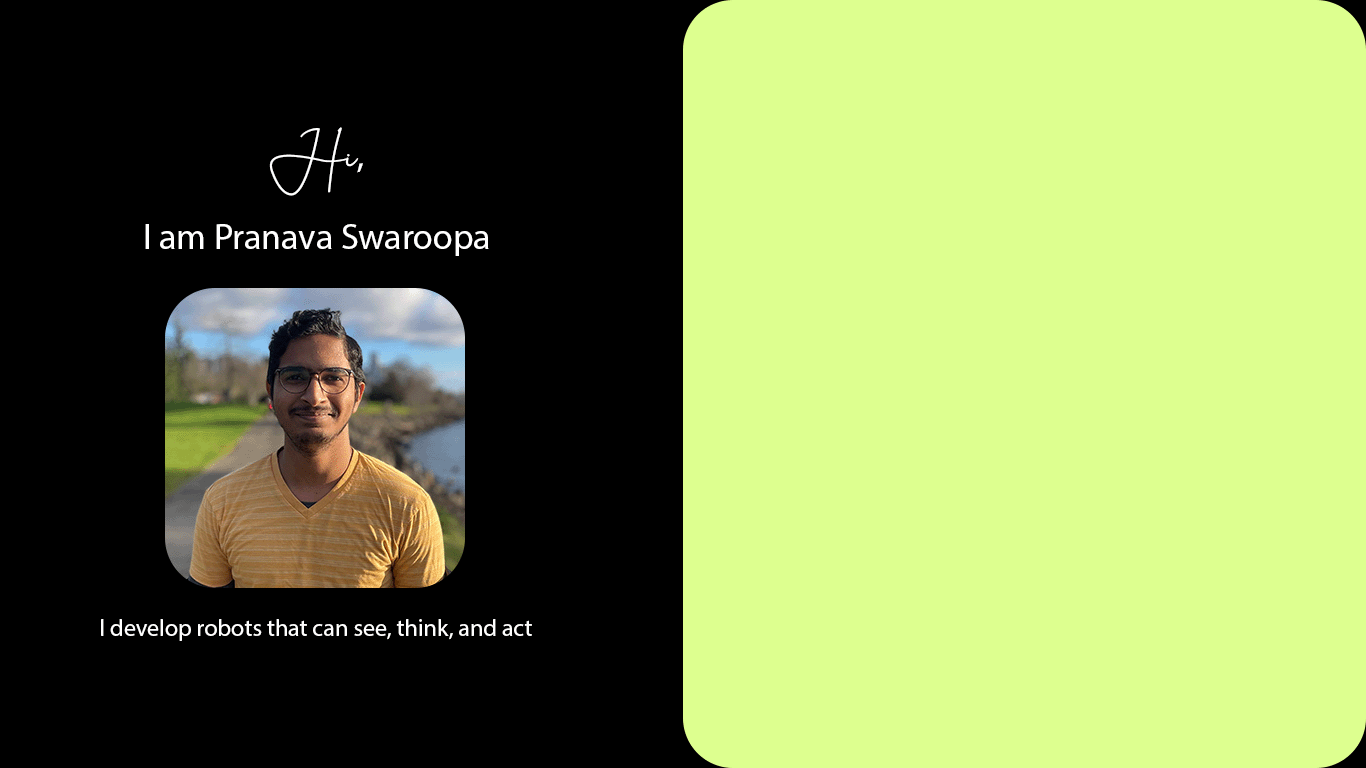
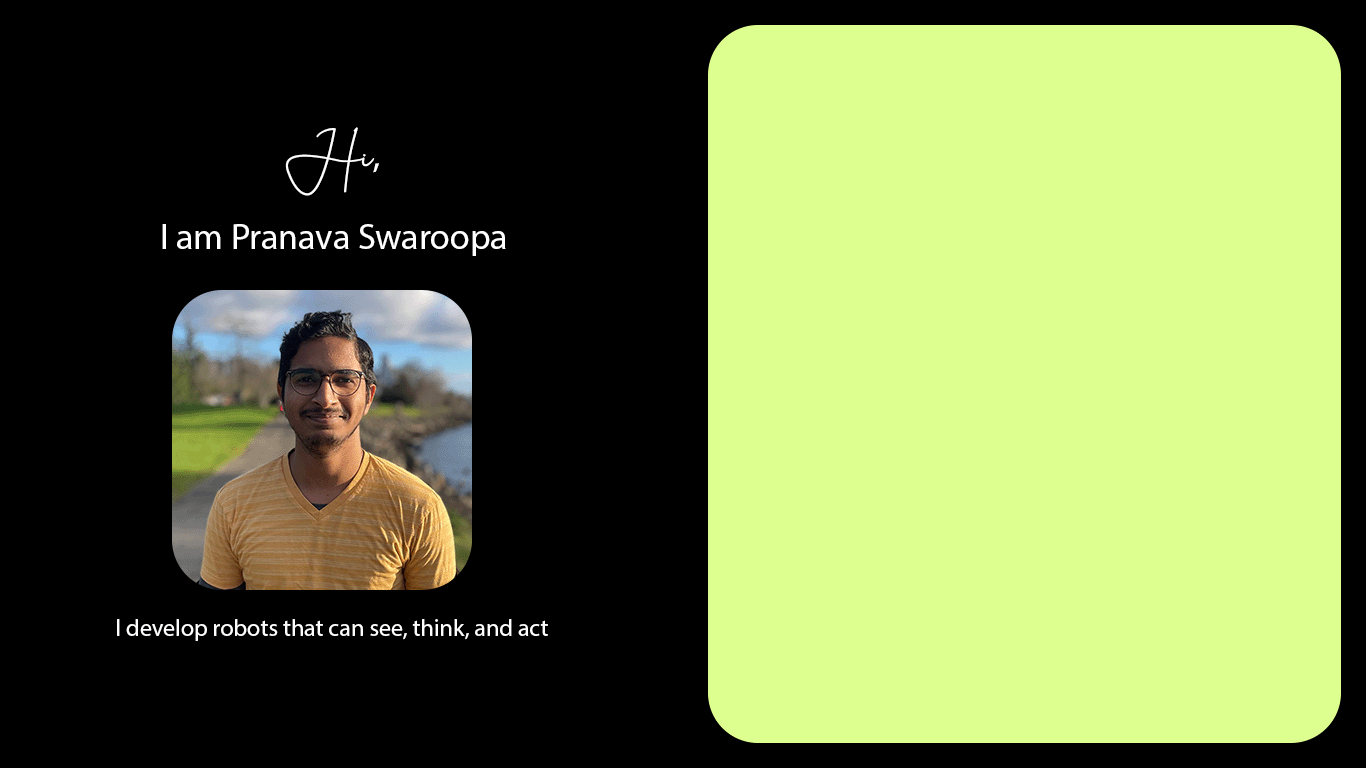
corrected text alignment

diff --git a/style.css b/style.css
@@ -1,57 +1,48 @@
 html {
     font-family: sans-serif;
     line-height: 1.15;
-    -webkit-text-size-adjust: 100%;
-    -webkit-tap-highlight-color: transparent;
     height: 100%;
 }
-.body-font-color {
-    color: #fff;
-}
-/* body {
-    margin: 50px;
-    font-family: source sans pro,Helvetica,Arial,sans-serif;
-    font-size: 1rem;
-    font-weight: 400;
-    line-height: 1.5;
-    color: #212529;
-    text-align: left;
-    background-color: #fff
-} */
 body {
     background-image: url("src/images/MainPage_V3.png"),linear-gradient(90deg, #000 50%, #000 50%) ;
     background-repeat: no-repeat;
     background-position: center;
+}
+.info {
+    
+    font-size: 18px;
+    font-family: "Google Sans Display", Roboto, Arial, sans-serif;
+    line-height: 24px;
+    position: absolute;
+    top: 10%;
+    left: 55%;
+    right: 15%;
+}
+#about {
+    text-transform: uppercase;
+    font-size: 24px;
+}
+
+@media screen and (max-width: 481px) {
+
+body {
+    background-image: url("src/images/MainPage_Mobile.png") ;
+    background-repeat: no-repeat;
+    align-items: center;
     
 }
-.headline {
-    text-transform: uppercase;
-    font-weight: 700;
-    font-size: 30px;
+
+.info {
+    
+    font-size: 18px;
     font-family: "Google Sans Display", Roboto, Arial, sans-serif;
-    line-height: 48px;
-}
-/* h1,h2,h3,h4,h5,h6 {
-    margin-top: 0;
-    margin-bottom: .5rem
-} */
-#title {
-    position: relative;
-    top: 20%;
-    /* left: 100px; */
-}
-.v-auto {
-    font-size: 30px;
-    color: #bb23c7;
-}
-.clemson-image {
+    line-height: 24px;
     position: absolute;
-    right: 100px;
+    top: 65%;
+    left: 10%;
 }
-p {
-    margin-top: 0;
-    margin-bottom: 1rem
+#about {
+    text-transform: uppercase;
+    font-size: 24px;
 }
-.student-info {
-    margin: 0px 50px 0px 50px;
 }

diff --git a/index.html b/index.html
@@ -1,15 +1,19 @@
 <!DOCTYPE html>
-<html>
+<html lang="en">
     <head>
-        <link rel="stylesheet" href="style.css">
+        <title>Pranava Swaroopa</title>
+        <link rel="stylesheet" type="text/css" href="style.css">
+        <meta content="text/html" charset="UTF-8">
+        <meta name="viewport" content="width=device-width, initial-scale=1.0" />
     </head>
 <body class="body-font-color">
 
-<!-- <div class="student-info">
+<div class="info">
+    <h4 id="about">About me</h4>
     <div class="icar-head">I'm a masters student at the <b>Clemson Univerisity International Center for Automotive Research</b></div>
     <div class="dept">Master of Science in <b class="v-auto">Automotive Engineering</b> speacializing in <b class="v-auto">Vehicle Autonomy</b></div>
     <div class="headline">I develop technology to help robots so they can help us</div> 
-</div> -->
+</div>
 <!-- <div class="clemson-image"><img src="src/images/ClemsonPaw_RGB__Orange.png" width="300"></div> -->
 <!-- <br>
 <h2>Technical Skills</h2>
